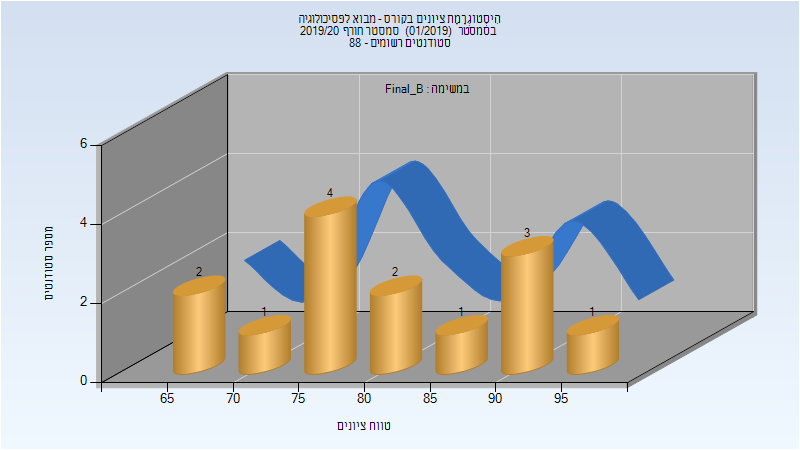
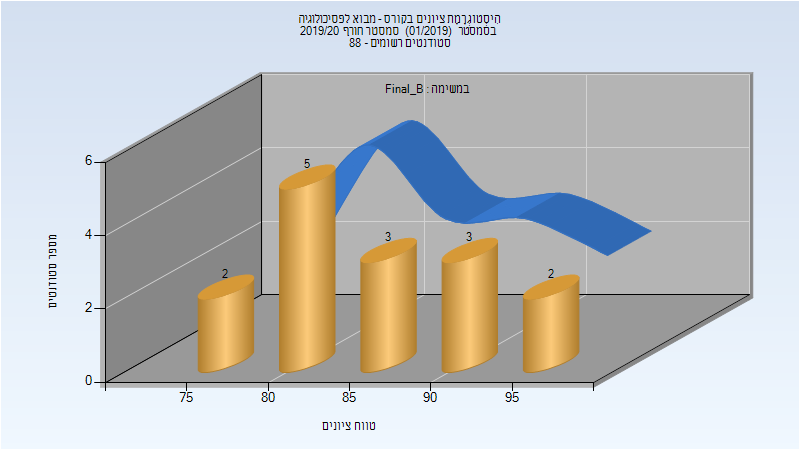
Deploy michael-maltsev/technion-histograms to github.com/michael-maltsev/technion-histograms.git:gh-pages

diff --git a/095605/index.html b/095605/index.html
@@ -357,13 +357,13 @@
 </thead>
 <tbody>
 <tr>
-<td>14</td>
-<td>14/0</td>
+<td>15</td>
+<td>15/0</td>
 <td>100</td>
-<td>65</td>
+<td>76</td>
 <td>96</td>
-<td>81.5</td>
-<td>80.5</td>
+<td>86.467</td>
+<td>84</td>
 </tr>
 </tbody>
 </table>

diff --git a/095605/README.md b/095605/README.md
@@ -107,7 +107,7 @@
 
 | סטודנטים | עברו/נכשלו | אחוז עוברים | ציון מינימלי | ציון מקסימלי | ממוצע | חציון |
 | ---- | ---- | ---- | ---- | ---- | ---- | ---- |
-| 14 | 14/0 | 100 | 65 | 96 | 81.5 | 80.5 |
+| 15 | 15/0 | 100 | 76 | 96 | 86.467 | 84 |
 
 ### סופי
 
